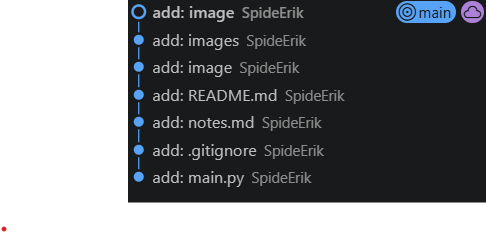
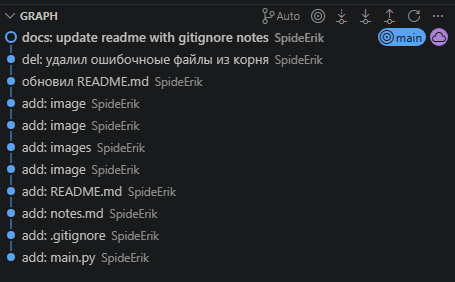
fix: исправил отображение картинок

diff --git a/README.md b/README.md
@@ -53,19 +53,19 @@
 
 ## Скриншоты
 1. Созданный репозиторий
-![01](![alt text](image.png))
+![01](![alt text](screenshots/image.png))
 2. Инициализированный репозиторий
-![02](![alt text](image-1.png))
+![02](![alt text](screenshots/image-1.png))
 3. Первый коммит
-![03](![alt text](image-2.png))
+![03](![alt text](screenshots/image-2.png))
 4. Репозиторий на github
-![04](![alt text](image-3.png))
+![04](![alt text](screenshots/image-3.png))
 5. Созданная ветка
-![05](![alt text](image-4.png))
+![05](![alt text](screenshots/image-4.png))
 7. Выполнение Fetch / Pull
-[07](![alt text](image-5.png))
+[07](![alt text](screenshots/image-5.png))
 8. Итоговая система Git Graph
-[08](![alt text](image-6.png))
+[08](![alt text](screenshots/image-6.png))
 
 ## Разница между Fetch и Pull
 Fetch проверяет и загружает информацию о новых коммитах из GitHub, но не меняет мои рабочие файлы. Pull загружает изменения и сразу применяет их к текущей ветке. 